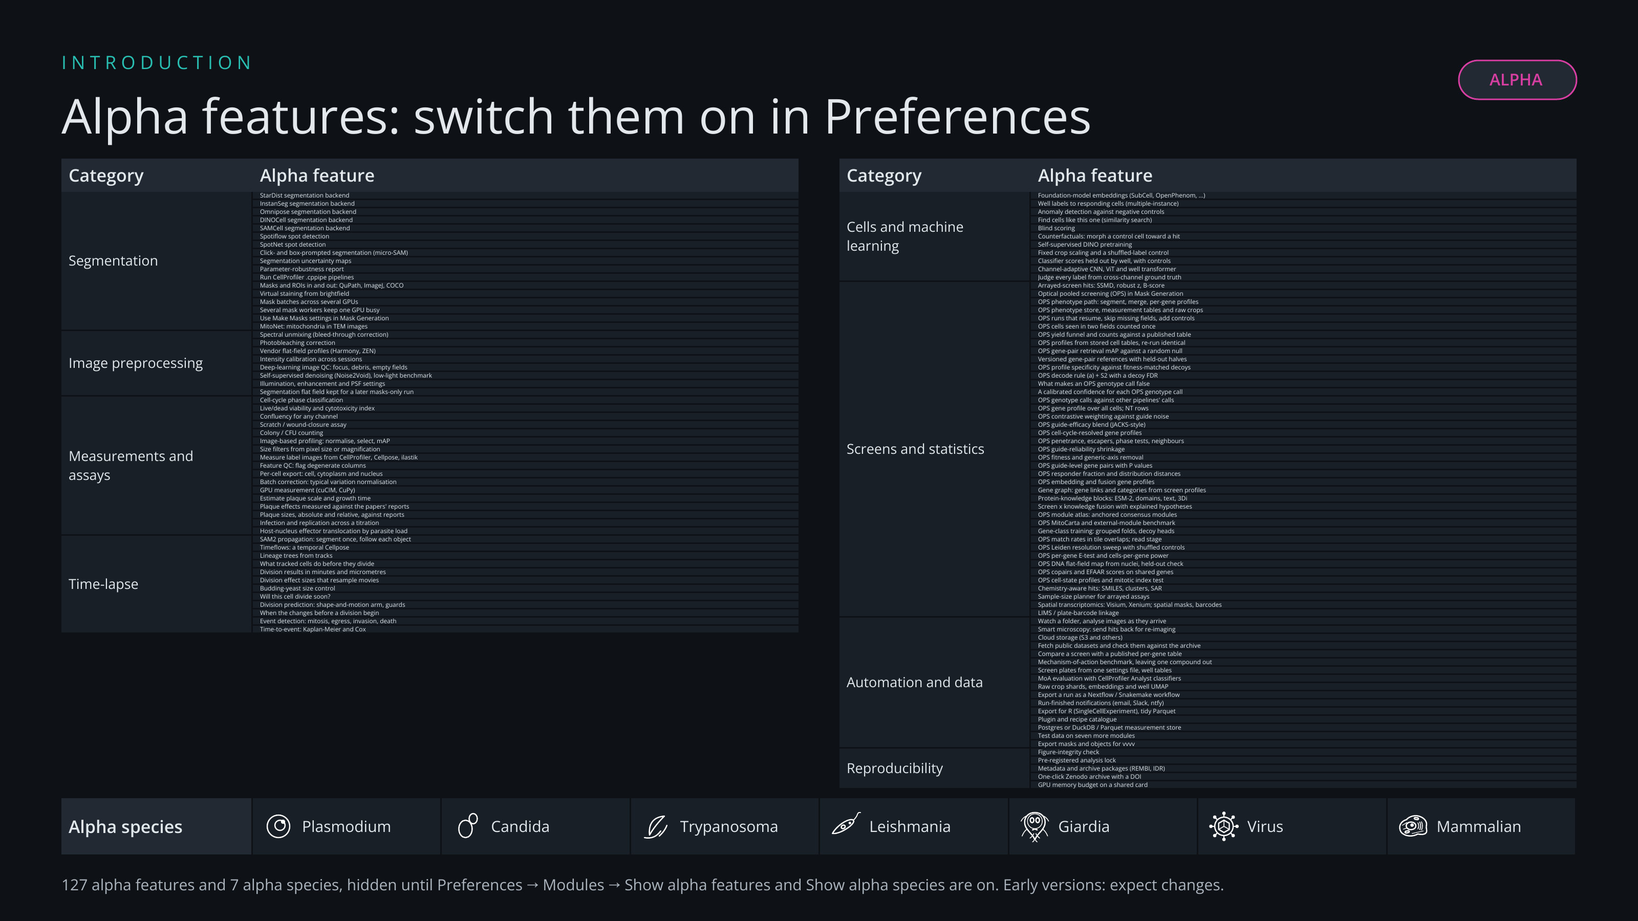
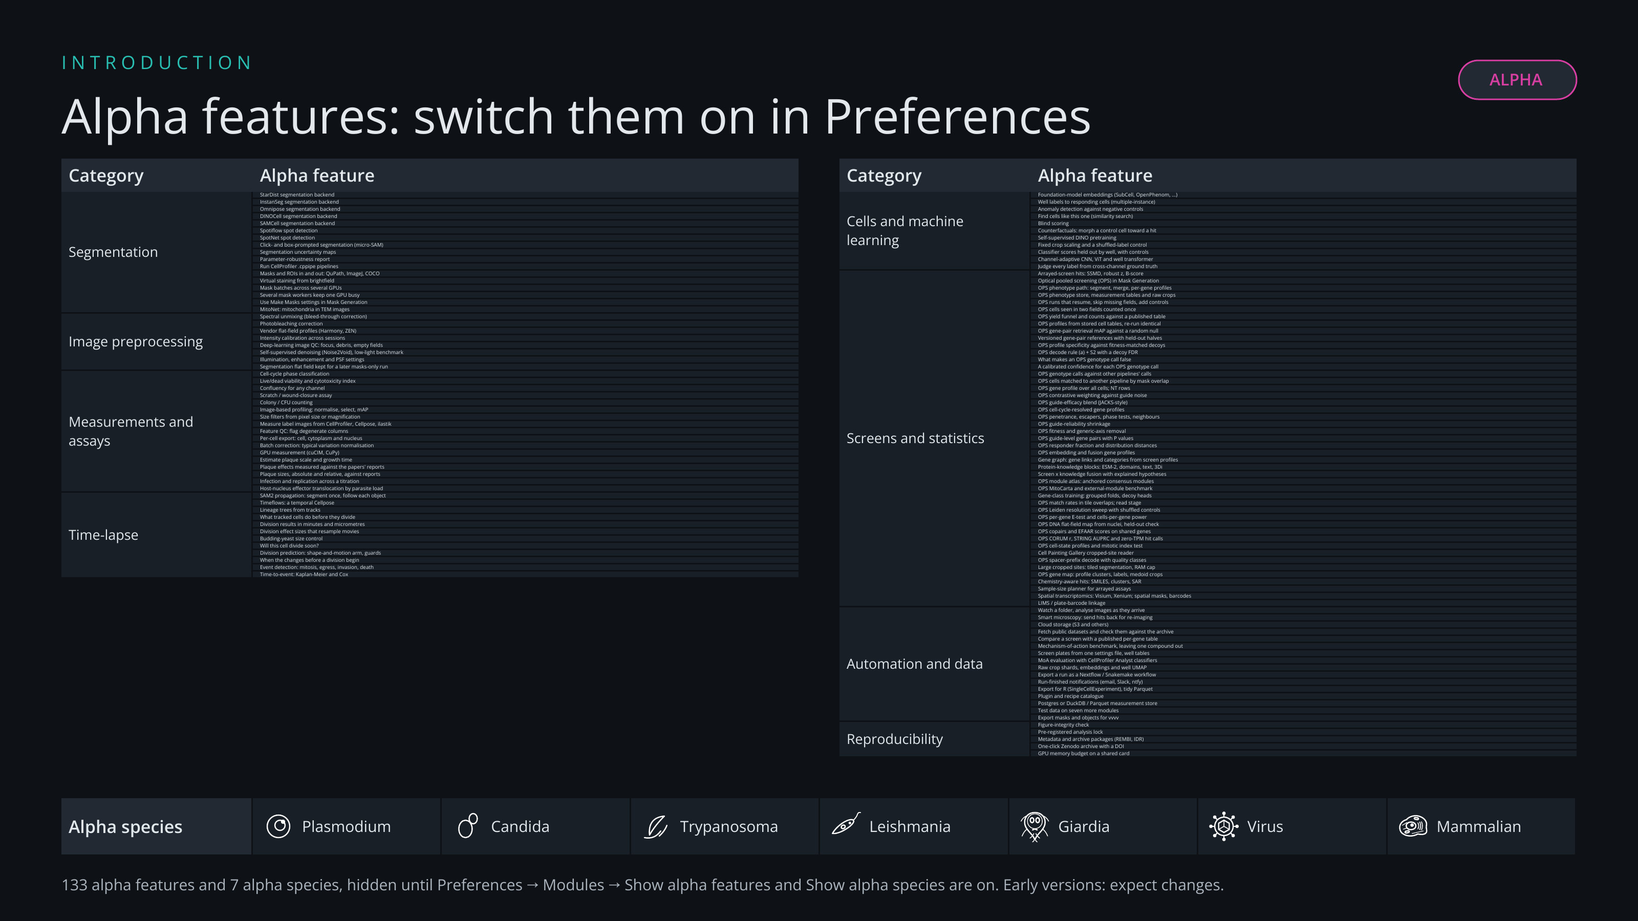
List 918-923 on the alpha slide (133 features), republish the deck media and pin it at 0a1629aae3, and regenerate the feature index

diff --git a/features/FEATURE_LIST.md b/features/FEATURE_LIST.md
@@ -2,7 +2,7 @@
 
 Canonical discovery for every numbered spaCR feature item. Generated by `python tools/build_instruction_index.py`; do not hand-edit.
 
-902 records, 894 numeric IDs; 739 New and 163 Future lifecycle records.
+906 records, 898 numeric IDs; 739 New and 167 Future lifecycle records.
 
 All numbered files live in `features/feature_list/`. Lifecycle preserves the former folder category; Future remains alpha-gated. It does not mean open or complete. Recorded header status is quoted, may lag later notes, and is not release or native acceptance. Read each item's dated trailing notes for its current requirements.
 
@@ -12,7 +12,7 @@ Repeated IDs retain their separate full filenames and histories; none were merge
 
 This is a declaration-based navigation list, not a verified unfinished count. Headers can be stale. Conversely, recorded-Done items 641 and 673 contain later Mac follow-ups; item 729 separates native checks from deferred implementation. Read their linked notes before assigning work.
 
-54 records have no recorded complete declaration; 848 have a recorded complete declaration. Neither is a verification result.
+56 records have no recorded complete declaration; 850 have a recorded complete declaration. Neither is a verification result.
 
 | ID | Lifecycle | Item (full filename) | Recorded status |
 |---|---|---|---|
@@ -70,6 +70,8 @@ This is a declaration-based navigation list, not a verified unfinished count. He
 | 889 | Future | [GENE-CLASS (MULTI-LABEL) TRAINING WITH GROUPED SPLITS, DECOY HEADS AND SHUFFLED CONTROLS — 889_gene_class_training.txt](feature_list/889_gene_class_training.txt) | PARTIAL 2026-11-09 (alpha, under ALPHA_FEATURES[889]) — spacr.gene_classes builds the gene classes from versioned annotation files (KinHub, CORUM, KEGG with the BRITE filter, GO-slim, Funk feature directions; md5 in sources.json), merges or drops near-duplicates, splits genes into folds by multi-label iterative stratification (grouped_multilabel_folds, every gene in one fold), gates a table on phenotype-positive members, trains the per-class logistic-regression baseline on a gene feature table with decoy heads and a shuffled-class control, and writes the evaluation report (per_class.csv, summary.json, discovery.csv / discovery_a.csv / discovery_b.csv against the gene-wise decoy null). run_gene_classes runs it from settings (module 'gene_classes'). The shipped spaCR CNN (CustomCellClassifier) is pinned to the benchmark's fixed arm. Image arms (lane J, 2026-11-10): spacr.gene_class_images ports gc_train.py — OPS shard crops and BBBC021 memmap crops with fixed per-plate channel scales, the class_gene / class balanced samplers, DevicePrep augmentation, transform_spec saved per fold and checked before scoring (772), the arms resnet18, resnet50, efficientnet_b0, convnext_tiny, dinov2, dinov2_frozen, maxvit_t (spaCR TorchModel) and spacr_cnn (spaCR's CustomCellClassifier, the fixed arm), train_image_fold and score_bbbc_run; ml_model='image' with train_arch, train_input_size, train_balanced_sampling and the crop settings runs them from settings. NOT YET: the GPU runs of the benchmark. spacr/gene_classes.py, tests/test_gene_classes_889.py. |
 | 897 | Future | [CHANNEL-ADAPTIVE CNN AND VIT, THE WELL SET TRANSFORMER, MAE / DINO PRE-TRAINING AND THE MISSING-STAIN EVALUATION — 897_spacr_architectures.txt](feature_list/897_spacr_architectures.txt) | PARTIAL 2026-11-10 (well-set path DONE: every NSCB ResNet-18 arm and control bit-identical to the reference; cell-level GPU runs remain) (alpha, under ALPHA_FEATURES[897]) — spacr.channel_models: SpacrChannelCNN (HyperNet stem, FiLM ConvNeXt blocks, cross-channel mixing, channel attention pooling), SpacrChannelViT (per-channel patch tokens, stain embeddings, availability mask, Hierarchical Channel Sampling, bag-of-channels), ChannelMAE, ChannelDINO, SpacrWellTransformer (arrayed ISAB + gated attention-MIL with instance head; pooled with context and null token), penetrant_fraction; the registry build_channel_model / CHANNEL_ARCHITECTURES, and choose_model builds spacr_channel_cnn and spacr_channel_vit for the spaCR train path. spacr.well_set_training: label-free normalisation (per-plate control centring and scaling, control-fitted PCA whitening), wells, the NSCB / NSC folds, the arms settf, abmil, n1, mixbag, mean_lr and mean_knn, the eval_bbbc scoring with bootstrap, penetrance against control cells, shuffled-label and majority-class controls, summary.csv; synthetic arrayed and pooled checks. spacr.architecture_training: settings (app key spacr_architectures, spacr-run spacr_architectures, python -m spacr.architecture_training), train_level 'well_set' or 'cell'; the cell level trains the CNN or ViT on raw crops with a fixed per-channel scale, optional MAE or DINO pre-training (pretrain_method, pretrain_epochs, pretrain_mask_ratio), few-shot labels (train_labels_per_class) and the missing-stain evaluation (eval_channel_subsets), with shuffled-label and majority-class controls. spacr/channel_models.py, spacr/well_set_training.py, spacr/architecture_training.py, tests/test_spacr_architectures_897.py, tests/test_architecture_training_897.py. |
 | 910 | Future | [HOST-NUCLEUS EFFECTOR TRANSLOCATION AGAINST PARASITE LOAD — 910_effector_translocation.txt](feature_list/910_effector_translocation.txt) | PARTIAL 2026-11-10 (alpha; Make Masks hook and figure added 2026-11-10, full plate waits for GPU masks) — spacr.host_pathogen gains nucleus_territories (cells from nuclei without a cell stain: small nuclei removed, each nucleus grown by up to N px without overlap), translocation_cells (per host cell: vacuoles and parasites per cell by majority overlap, raw nuclear effector sum as HRMAn, nuclear mean with pixels near parasites left out, field background, cytoplasm, DNA and nucleus-area controls), translocation_summary (curves by vacuoles per cell normalised to k = 0 per group, per-well ratios, null-threshold % positive nuclei per k and per well, within-field shuffle null, agreement with a reference curve) and nuclear_translocation (the settings run; analyze_host_pathogen dispatches to it with translocation=True), writing <src>/translocation/. Twenty settings under ALPHA_FEATURES[772] (a new key breaks the alpha deck test). On the 3-field CPU pilot (B02_3, D05_3, F08_3) the territories and nuclei, cells_translocation.csv (309 cells) and all nine summary tables, the shuffle null with seed 0 included, equal the reference scripts' output. |
+| 918 | Future | [IMAGE UMAP FOR OPS GENE PROFILES: PROFILE CLUSTERS, HIERARCHY, ENRICHMENT LABELS, MEDOID-CELL CROPS — 918_image_umap_ops.txt](feature_list/918_image_umap_ops.txt) | PARTIAL 2026-11-11 (alpha, under ALPHA_FEATURES[918]) — Image UMAP (spacr.core.generate_image_umap, spacr-run umap) takes umap_source='ops_profiles' and hands the call to spacr.ops_image_umap.run_ops_image_umap: reads gene (and optionally guide) profiles from an npz (names / pcs) or a table (read_profiles); lays them out with umap-learn for display only, guides fitted jointly or projected (umap_layout; n_jobs=1 with a seed); clusters the FULL profiles with a cosine kNN or PHATE graph and Leiden through spacr.ops_clusters.gene_graph / leiden_partitions, or reads a partition column 'file:column' (profile_clusters), never the 2-D layout; builds an average-linkage (cosine) hierarchy of the cluster centroid profiles cut at ops_umap_hierarchy_levels (cluster_hierarchy); labels each cluster with its best gene set at BH q < ops_umap_label_q across all cluster x term pairs, one-sided hypergeometric or Brieflow's two-sided Fisher, background = clustered non-control genes, minimum overlap 2, with a shuffled-gene-label control at the same cluster sizes (label_sets, enrich_clusters, shuffled_label_control); picks per cluster or top-level group the medoid gene by summed cosine distance and that gene's cells closest to its profile in the per-cell embedding, skipping small cells and crops cut by the field edge (medoid_gene, medoid_cells, read_crop); shows raw crops at ONE display range per channel pooled over every crop shown (shared_display_range, composite); places the crop panels on a ring by Hungarian assignment on angle so leader lines do not cross (layout_crop_ring); reports layout faithfulness over several UMAP seeds (trustworthiness and same-cluster neighbour shares, layout_stability); records library versions (library_versions). Writes umap_coords.csv, clusters.csv, cluster_hierarchy.csv, cluster_enrichment.csv, enrichment_control.json, layout_stability.csv, cluster_medoids.csv, crops/ (raw .npy + PNG at the shared range), crops_display.json, ops_umap.pdf/png/svg and umap_provenance.json. spacr/ops_image_umap.py, spacr/core.py, spacr/settings.py, tests/test_ops_image_umap_918.py. |
+| 921 | Future | [OPS LARGE CROPPED SITES: TILED SEGMENTATION, CHUNKED MEASUREMENT, RAM CAP, EDGE POLICY, PHALLOIDIN PRESET — 921_ops_large_site_segmentation.txt](feature_list/921_ops_large_site_segmentation.txt) | PARTIAL 2026-11-11 (alpha, under ALPHA_FEATURES[921]) — CPU path built and pinned by synthetic fixture tests; the GPU tolerance check and the CP186A Well1 run are not done (no GPU at Home). New module spacr/ops_large_sites.py, run by spacr-run ops_large_sites (run_large_site_segmentation): reads a cropped well folder (<channel>/<channel>_Site_<n>.tiff, the Cell Painting Gallery's images_corrected_cropped layout, or <site>.npy stacks); plans tile size and workers from seg_max_ram_gb and refuses a cap it cannot meet (plan_site_memory); segments nuclei on DNA and cells on [Phalloidin, DNA] tile by tile with overlap (segment_tiled, tile_grid) and stitches labels by IoU, keeping the copy whose centroid is farther from an inner tile edge, relabelled in raster order (stitch_tile_labels, relabel_raster); a site no larger than one tile goes through the segmenter unchanged; pairs one nucleus per cell (spacr.ops_sample.pair_nuclei_with_cells); applies the crop-edge policy exclude / keep / own (apply_edge_policy); measures every object once and whole in row bands with a halo (measure_chunked, basic_features); estimates the plate's nucleus diameter from a first pass, clipped to [10, 80] px (estimate_nucleus_diameter); scores agreement with reference label masks (mask_agreement: F1 at IoU 0.5, median IoU, count ratio, non-edge objects only); records peak memory per site with spacr.resource_log.ResourceSampler; optional tiled-vs-untiled control on a centred region (tiling_control). Writes <seg_dst>/labels/<site>_{nuclei,cells}.npy, tables/<site>_cells.parquet, sites.csv, agreement_well.csv, tiling_control.json, resource_log/site_<n>.jsonl and settings.json. spacr/ops_large_sites.py, spacr/settings.py, spacr/cli.py, tests/test_ops_large_sites_921.py. |
 
 ## All feature items
 
@@ -975,8 +977,12 @@ This is a declaration-based navigation list, not a verified unfinished count. He
 | 915 | Future | [OPS YIELD TABLE WITH A READ STAGE, AND MATCH RATES IN TILE-OVERLAP STRIPS VS CORES — 915_ops_yield_overlap_report.txt](feature_list/915_ops_yield_overlap_report.txt) | DONE 2026-11-10 (alpha, under ALPHA_FEATURES[915]) — with ops_report_read_stage the decode (item-873 rules) counts, per field, the owned nuclei whose territory holds a spot above the read threshold (spacr.ops_decode.nuclei_with_read; field_stats_<well>.csv gains nuclei_with_read) and the report phase adds sbs_nuclei, sbs_nuclei_with_read and its % to funnel_per_well.csv. With ops_report_overlap_zones the report phase writes overlap_match_by_zone.csv (unit copy / physical_cell / external_copy), overlap_match_by_edge_distance.csv (ops_report_edge_bin_px) and overlap_match_per_field.csv (fields with >= 50 units per zone); ops_report_external_cells (+ ops_report_external_max_px) adds overlap_external_paired.csv/.json, the paired comparison on the same physical cells with exact McNemar counts and the matching statement. spacr/ops_decode.py, spacr/ops_engine.py, spacr/ops_settings.py, spacr/settings.py, tests/test_ops_overlap_report_915.py. |
 | 916 | Future | [OPS LEIDEN RESOLUTION SWEEP OF GENE PROFILES WITH SHUFFLED-CLUSTER CONTROLS — 916_ops_leiden_resolution_sweep.txt](feature_list/916_ops_leiden_resolution_sweep.txt) | DONE 2026-11-10 (alpha, under ALPHA_FEATURES[916]) — the profile-path phase cluster_sweep (spacr-run ops, phases ["cluster_sweep"], after profile) builds a PHATE diffusion graph and/or a symmetric cosine kNN graph of the gene rows (spacr.ops_clusters.gene_graph), runs Leiden RBConfiguration over a resolution grid for every seed (leiden_partitions), scores every partition with Brieflow's benchmark (CORUM / KEGG % clusters enriched head and may2025, STRING pair precision / recall / F1 / tp / fp / fn) plus CORUM REPORT-half complex recovery and partner-in-cluster share (score_partition, complex_metrics), each with shuffled-label controls drawn in loop order from default_rng(20261109) (score_partitions), and summarises over seeds with the resolution nearest ops_cluster_target_clusters flagged (sweep_summary). Writes <dst_root>/results/ops_clusters/sweep_rows.csv, sweep_summary.csv, assignments_<graph>_s<seed>.csv.gz and sweep.png. spacr/ops_clusters.py, spacr/ops_tvn.py, spacr/ops_engine.py, spacr/ops_settings.py, spacr/settings.py, tests/test_ops_leiden_sweep_916.py. |
 | 917 | Future | [OPS PER-GENE E-DISTANCE AND E-TEST AGAINST NON-TARGETING CELLS, WITH A CELLS-PER-GENE POWER CURVE — 917_ops_etest_power_curve.txt](feature_list/917_ops_etest_power_curve.txt) | DONE 2026-11-10 (alpha, under ALPHA_FEATURES[917]) — with ops_etest the profile phase keeps the per-cell aligned (TVN) embedding (cells_E.npy, cells_meta.parquet); the profile-path phase etest (spacr-run ops, phases ["etest"]) measures each gene's E-distance to a fixed reference of 2,000 non-targeting cells (squared Euclidean and Euclidean; spacr.gene_measurement_compare.EnergyReference), tests it against 1,000 non-targeting pseudo-genes of the same cell count (empirical null, p = (1 + #null >= E) / 1,001, BH over genes) or by scPerturb's label permutation, scores 500 held-out pseudo-genes and every non-targeting guide as false-positive controls (EnergyTest), and repeats it with at most n cells per gene for n in 10, 25, 50, 100, 200, 500 and all, three seeds (subsample_power). ops_power_retrieval adds the retrieval power curve: at most n cells per targeting gene and every control cell, guide and gene medians (subsample_profiles), the evaluate phase's retrieval metrics and paired Wilcoxon tests against the largest cap. Writes <dst_root>/results/ops_etest/edist_per_gene_n<n>_s<seed>.csv.gz, power_hits.csv, power_hits.png and, with retrieval, power_profiles/, power_retrieval_summary.csv and power_retrieval_tests.csv. spacr/gene_measurement_compare.py, spacr/ops_tvn.py, spacr/ops_engine.py, spacr/ops_settings.py, spacr/settings.py, tests/test_ops_etest_power_917.py. |
+| 918 | Future | [IMAGE UMAP FOR OPS GENE PROFILES: PROFILE CLUSTERS, HIERARCHY, ENRICHMENT LABELS, MEDOID-CELL CROPS — 918_image_umap_ops.txt](feature_list/918_image_umap_ops.txt) | PARTIAL 2026-11-11 (alpha, under ALPHA_FEATURES[918]) — Image UMAP (spacr.core.generate_image_umap, spacr-run umap) takes umap_source='ops_profiles' and hands the call to spacr.ops_image_umap.run_ops_image_umap: reads gene (and optionally guide) profiles from an npz (names / pcs) or a table (read_profiles); lays them out with umap-learn for display only, guides fitted jointly or projected (umap_layout; n_jobs=1 with a seed); clusters the FULL profiles with a cosine kNN or PHATE graph and Leiden through spacr.ops_clusters.gene_graph / leiden_partitions, or reads a partition column 'file:column' (profile_clusters), never the 2-D layout; builds an average-linkage (cosine) hierarchy of the cluster centroid profiles cut at ops_umap_hierarchy_levels (cluster_hierarchy); labels each cluster with its best gene set at BH q < ops_umap_label_q across all cluster x term pairs, one-sided hypergeometric or Brieflow's two-sided Fisher, background = clustered non-control genes, minimum overlap 2, with a shuffled-gene-label control at the same cluster sizes (label_sets, enrich_clusters, shuffled_label_control); picks per cluster or top-level group the medoid gene by summed cosine distance and that gene's cells closest to its profile in the per-cell embedding, skipping small cells and crops cut by the field edge (medoid_gene, medoid_cells, read_crop); shows raw crops at ONE display range per channel pooled over every crop shown (shared_display_range, composite); places the crop panels on a ring by Hungarian assignment on angle so leader lines do not cross (layout_crop_ring); reports layout faithfulness over several UMAP seeds (trustworthiness and same-cluster neighbour shares, layout_stability); records library versions (library_versions). Writes umap_coords.csv, clusters.csv, cluster_hierarchy.csv, cluster_enrichment.csv, enrichment_control.json, layout_stability.csv, cluster_medoids.csv, crops/ (raw .npy + PNG at the shared range), crops_display.json, ops_umap.pdf/png/svg and umap_provenance.json. spacr/ops_image_umap.py, spacr/core.py, spacr/settings.py, tests/test_ops_image_umap_918.py. |
 | 919 | Future | [CELL PAINTING GALLERY CROPPED-SITE READER (PERISCOPE images_corrected_cropped AS OPS INPUT) — 919_cpg_cropped_reader.txt](feature_list/919_cpg_cropped_reader.txt) | DONE 2026-11-11 (alpha, under ALPHA_FEATURES[919]) — spacr.cpg_cropped reads the Cell Painting Gallery's images_corrected_cropped/<plate>_Well<N>/<Channel>/<Channel>_Site_<S>.tiff layout. cpg_cropped_index builds one row per file from paths and TIFF headers only (plate and well from the folder name, well_id W<N>, site, modality phenotype\|sbs, cycle, channel, base, path, shape, dtype, size; md5 with cpg_md5). check_cpg_complete lists every missing pinned channel or cycle and refuses (cpg_missing='error') or drops the site ('skip_site'). load_cpg_site returns the (Y, X, C) painting stack in the pinned cpg_phenotype_channels order and the (cycles, Y, X, 4) sequencing stack in the pinned cpg_sbs_bases order (plus Cycle01_DAPI), each plane exactly tifffile.imread of its file; a sequencing grid that differs from the painting grid is refused unless cpg_sbs_resample is 'nearest' or 'linear' (factor recorded). run_ops with ops_layout='cpg_cropped' runs phases cpg_index (cpg_index.csv, cpg_channels.json, cpg_missing.csv) and cpg_merged (merged/phenotype/<plate>/<well_id>/<site>.npz, channels as stored, per-plane md5 in meta; masks added later); no stitching and no registration (the crops are already aligned), and tile phases are refused under this layout. spacr/cpg_cropped.py, spacr/ops_engine.py, spacr/ops_settings.py, spacr/settings.py, tests/test_cpg_cropped_reader_919.py. |
 | 920 | Future | [OPS IN-SITU DECODE OF sgRNA SPACER PREFIXES (CROP-SEQ): PREFIX WHITELIST, CYCLE MASK, CROSSTALK, HAMMING/LEVENSHTEIN, QUALITY CLASSES — 920_ops_spacer_prefix_decode.txt](feature_list/920_ops_spacer_prefix_decode.txt) | DONE 2026-11-11 (alpha, under ALPHA_FEATURES[920]) — spacr.ops_prefix: spacer_prefix_library builds the whitelist from a library table (ops_library, columns ops_library_sequence_col / ops_library_gene_col): each guide's key is its spacer at cycles 1..ops_prefix_length minus ops_cycle_mask (prefix_positions); identical spacers count once; a key shared by guides of different genes is never called; a key shared only by guides of one gene is called as that gene under ops_prefix_collision='gene_level' and excluded under 'exclude'; collisions table and the whitelist's minimum Hamming distance (whitelist_min_distance). match_prefix_reads: exact, then Hamming (default) or Levenshtein (one skipped or extra base, matched against the spacer's next base) up to ops_prefix_max_distance; an equally close pair is ambiguous, a unique match to an uncallable key is 'collision'; N (unmeasured) matches any base. shuffled_library is the random-barcode control (every key shuffled with default_rng(ops_control_seed)). compensate_prefix: ops_prefix_crosstalk 'none' \| 'per_cycle' \| 'global' (brieflow median unmixing). detect_spots / decode_prefix_site: the tile decode's LoG + cross-cycle std spot score (ops_read_threshold), median-normalised argmax calls, reads assigned by the cell label under them (ops_prefix_masks template, else merged/ labels). prefix_cell_calls / classify_cell: per cell the top barcode, read counts and class perfect \| great \| ambiguous \| none (QUALITY_CLASSES, written to quality_classes.json). run_prefix_decode is OPS phase prefix_decode under ops_layout='cpg_cropped' and ops_library_mode='spacer_prefix' (item 919 input), writing results/ops_prefix/. spacr/ops_prefix.py, spacr/ops_engine.py, spacr/ops_settings.py, spacr/settings.py, tests/test_ops_spacer_prefix_decode_920.py. |
+| 921 | Future | [OPS LARGE CROPPED SITES: TILED SEGMENTATION, CHUNKED MEASUREMENT, RAM CAP, EDGE POLICY, PHALLOIDIN PRESET — 921_ops_large_site_segmentation.txt](feature_list/921_ops_large_site_segmentation.txt) | PARTIAL 2026-11-11 (alpha, under ALPHA_FEATURES[921]) — CPU path built and pinned by synthetic fixture tests; the GPU tolerance check and the CP186A Well1 run are not done (no GPU at Home). New module spacr/ops_large_sites.py, run by spacr-run ops_large_sites (run_large_site_segmentation): reads a cropped well folder (<channel>/<channel>_Site_<n>.tiff, the Cell Painting Gallery's images_corrected_cropped layout, or <site>.npy stacks); plans tile size and workers from seg_max_ram_gb and refuses a cap it cannot meet (plan_site_memory); segments nuclei on DNA and cells on [Phalloidin, DNA] tile by tile with overlap (segment_tiled, tile_grid) and stitches labels by IoU, keeping the copy whose centroid is farther from an inner tile edge, relabelled in raster order (stitch_tile_labels, relabel_raster); a site no larger than one tile goes through the segmenter unchanged; pairs one nucleus per cell (spacr.ops_sample.pair_nuclei_with_cells); applies the crop-edge policy exclude / keep / own (apply_edge_policy); measures every object once and whole in row bands with a halo (measure_chunked, basic_features); estimates the plate's nucleus diameter from a first pass, clipped to [10, 80] px (estimate_nucleus_diameter); scores agreement with reference label masks (mask_agreement: F1 at IoU 0.5, median IoU, count ratio, non-edge objects only); records peak memory per site with spacr.resource_log.ResourceSampler; optional tiled-vs-untiled control on a centred region (tiling_control). Writes <seg_dst>/labels/<site>_{nuclei,cells}.npy, tables/<site>_cells.parquet, sites.csv, agreement_well.csv, tiling_control.json, resource_log/site_<n>.jsonl and settings.json. spacr/ops_large_sites.py, spacr/settings.py, spacr/cli.py, tests/test_ops_large_sites_921.py. |
+| 922 | Future | [OPS CROSS-PIPELINE CELL MATCHING BY MASK OVERLAP (F1 AT IoU 0.5, MEDIAN IoU, PER-CELL CALL CONCORDANCE) — 922_ops_reference_mask_matching.txt](feature_list/922_ops_reference_mask_matching.txt) | DONE 2026-11-11 (alpha, under ALPHA_FEATURES[922]) — the compare_calls phase gains ops_compare_match 'mask_overlap' (spacr.ops_decode.run_compare_masks; runs alone). Per field and object, spaCR's label masks (default <dst_root>/<well>/phenotype_masks/site-<n>.npz, or any template) are matched to the reference pipeline's label masks (ops_compare_reference_masks template with {plate}/{well}/{site}\|{tile}/{object}) by a one-pass sparse contingency (label_contingency); each spaCR object gets the reference object of largest overlap (ties: higher IoU, then lower label; best_overlaps) and F1 uses a Hungarian one-to-one matching at IoU >= ops_compare_iou (one_to_one, match_masks). Objects touching the image border are counted apart (ops_compare_edge_policy). Reference per-cell calls (ops_compare_reference_calls + ops_compare_call_columns, PERISCOPE map by default; reference_cell_calls, parse_site_key) are carried through the matches and compared with spaCR's (ops_cells_<plate>.parquet or ops_compare_spacr_calls; 'reference' = self-match control). Feldman reads -> per-cell call rule: cell_calls_from_reads (top barcode by read count, tie = no call). spacr/ops_decode.py, spacr/ops_engine.py, spacr/ops_settings.py, spacr/settings.py, tests/test_ops_mask_matching_922.py. |
+| 923 | Future | [OPS PROFILE BENCHMARKS FOR A SECOND SCREEN: CORUM WITHIN-COMPLEX r, STRING AUPRC, PERISCOPE ZERO-TPM HIT RULE — 923_ops_profile_benchmark_hits.txt](feature_list/923_ops_profile_benchmark_hits.txt) | DONE 2026-11-11 (alpha, under ALPHA_FEATURES[923]) — phase score (spacr.ops_scoring.score_ops_profiles) gains ops_scoring_metrics; listing 'corum_within_r', 'string_auprc' or 'hits_mw_ztpm' runs spacr.ops_scoring.score_profile_benchmarks on every input of ops_scoring_inputs with the same code (inputs may now carry 'pvalues' and 'cell_counts'); a list of only those skips copairs/EFAAR, and an empty list runs item 913 unchanged. spacr/ops_scoring.py, spacr/ops_settings.py, spacr/settings.py, tests/test_ops_profile_benchmarks_923.py. |
 
 ## Unnumbered feature documents
 
